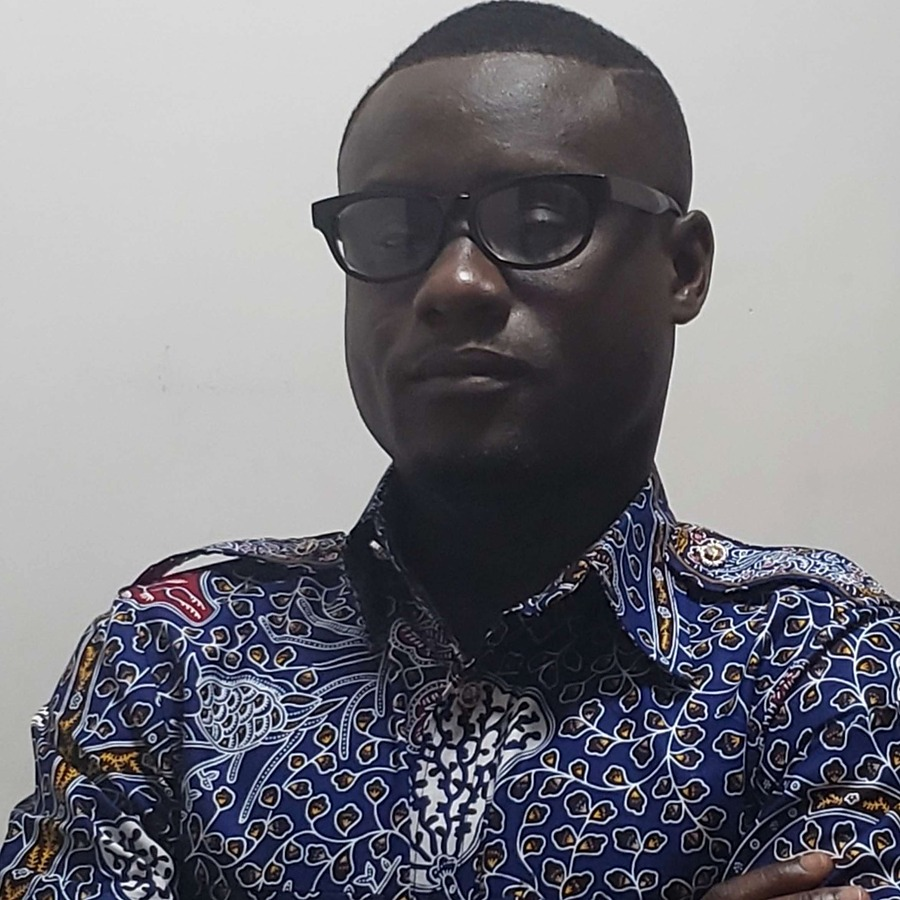
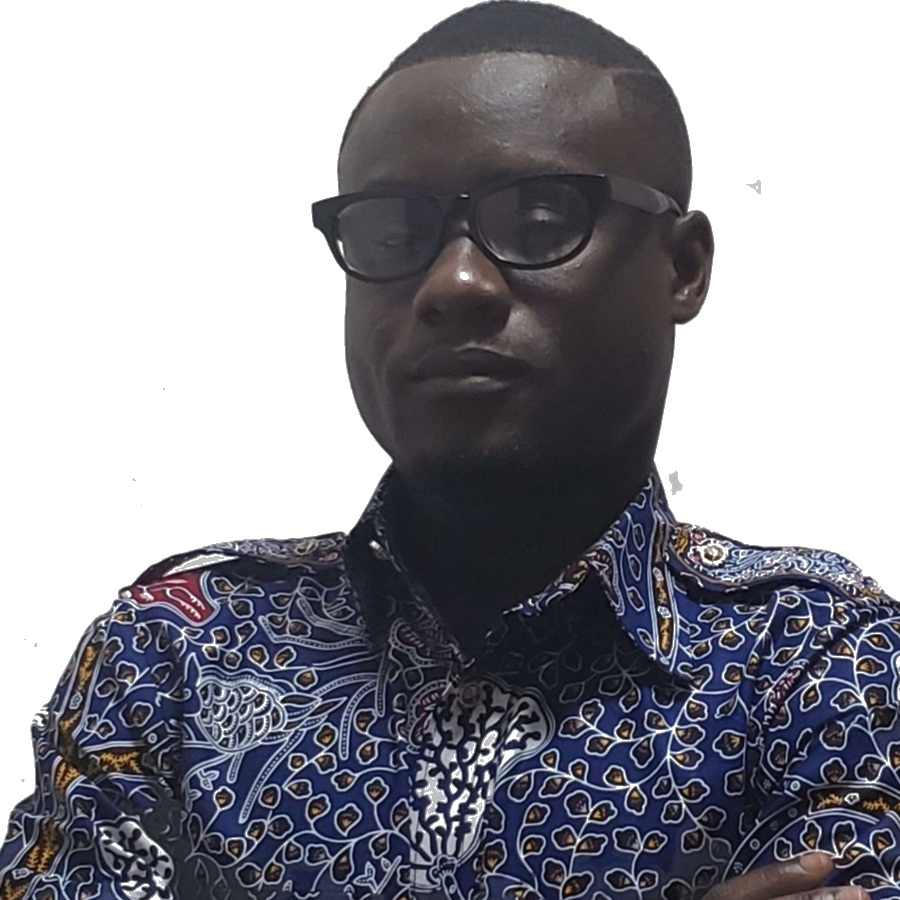
Set founder headshot background to pure white.

diff --git a/index.html b/index.html
@@ -288,7 +288,7 @@
       <p class="team-label" id="founders">Founders</p>
       <div class="founder-grid">
         <article class="person-card">
-          <img class="person-photo" src="assets/founder-nana.jpg?v=1" alt="Nana Safo Duker" width="580" height="580" loading="lazy" decoding="async">
+          <img class="person-photo" src="assets/founder-nana.jpg?v=2" alt="Nana Safo Duker" width="580" height="580" loading="lazy" decoding="async">
           <h3>Nana Safo Duker</h3>
           <p class="person-role">Co-Founder &amp; CEO</p>
           <a class="person-link" href="https://nana-safo-duker.github.io/" target="_blank" rel="noopener">Website</a>
